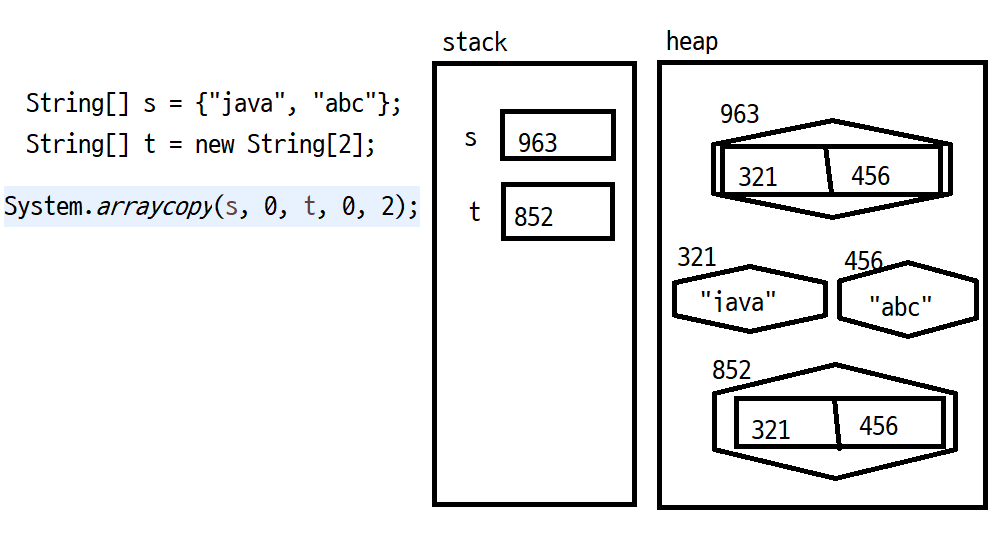
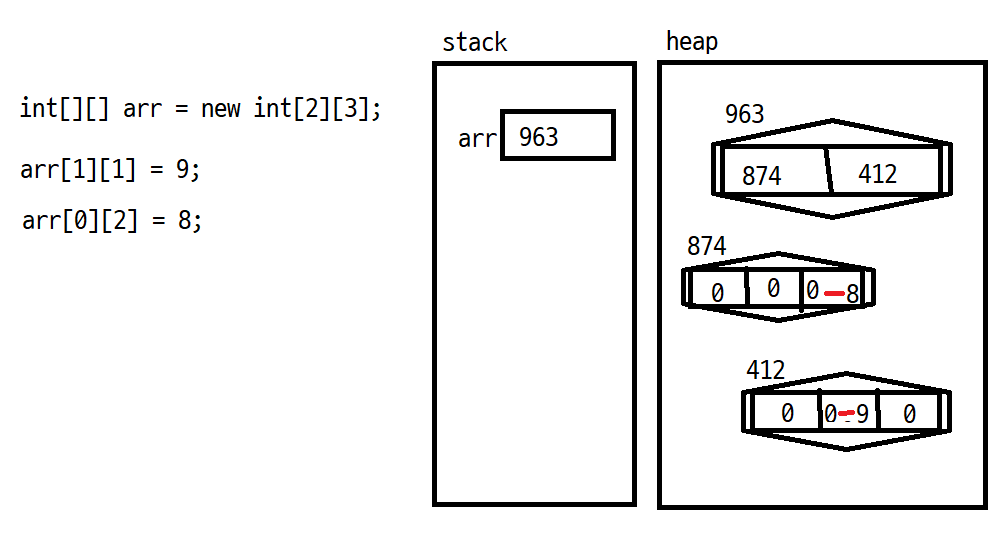
pic

diff --git a/src/p05/lecture/A25ArrayOfArray.java b/src/p05/lecture/A25ArrayOfArray.java
@@ -1,10 +1,17 @@
 package p05.lecture;
 
+import java.util.Arrays;
+
 public class A25ArrayOfArray {
 	// 그림:09.배열의 배열.png
 	public static void main(String[] args) {
 		int[][] arr = new int[2][3];
+		arr[1][1] = 9;
+		arr[0][2] = 8;
 		
+		for (int[] elem : arr) {
+			System.out.println(Arrays.toString(elem));
+		}
 	}
 
 }
